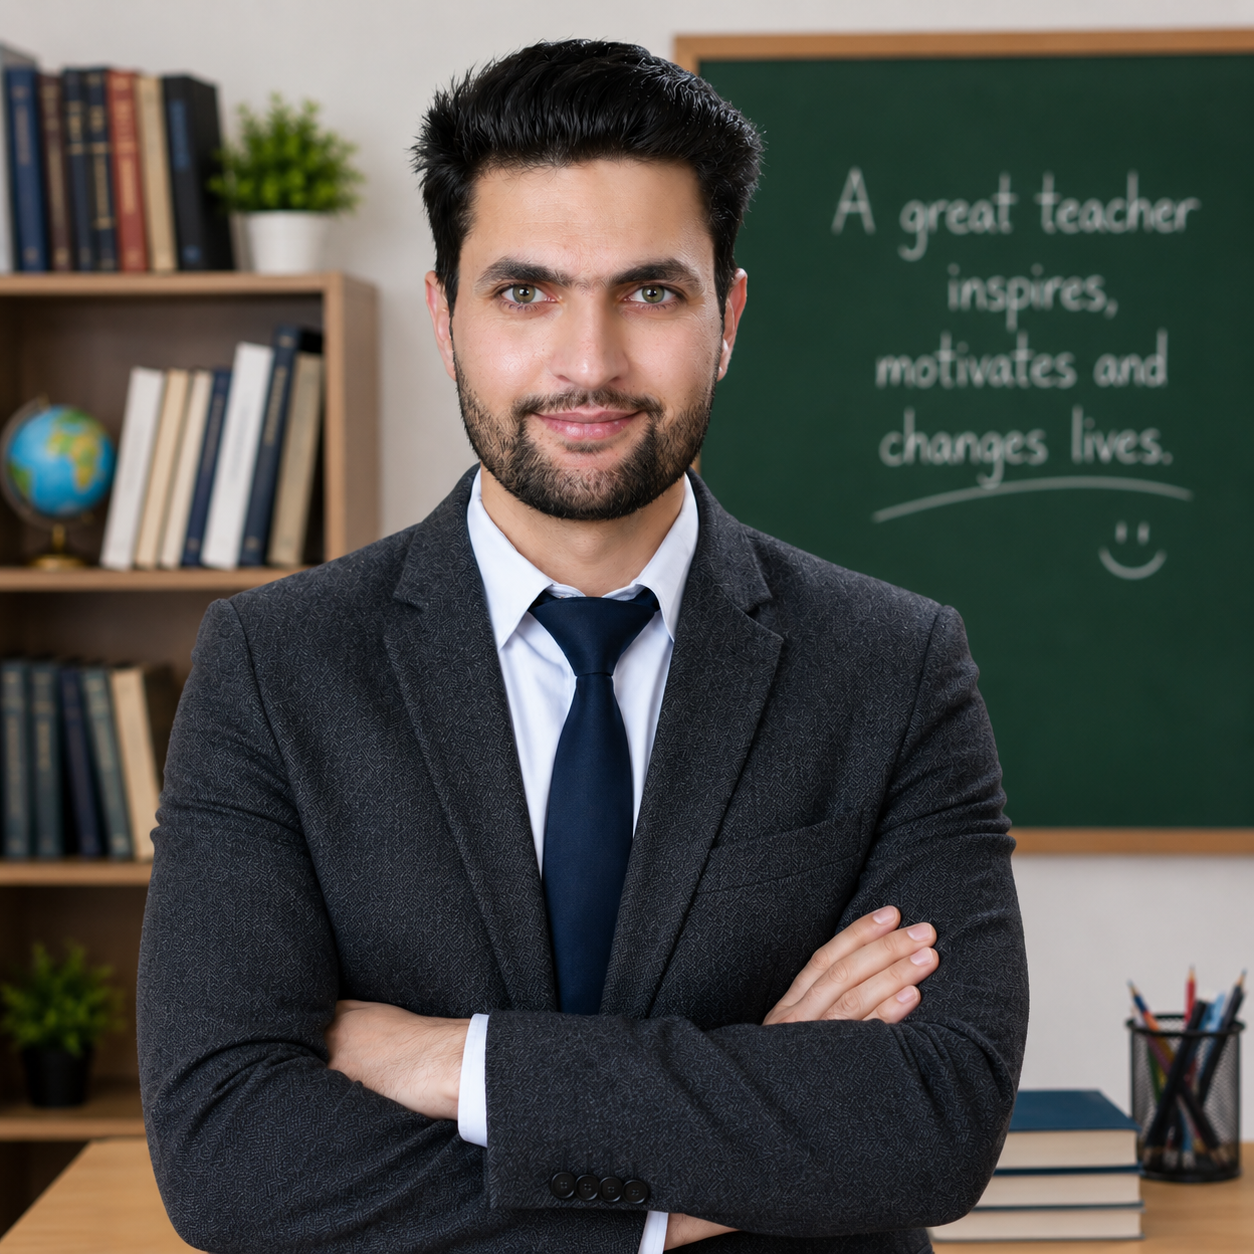
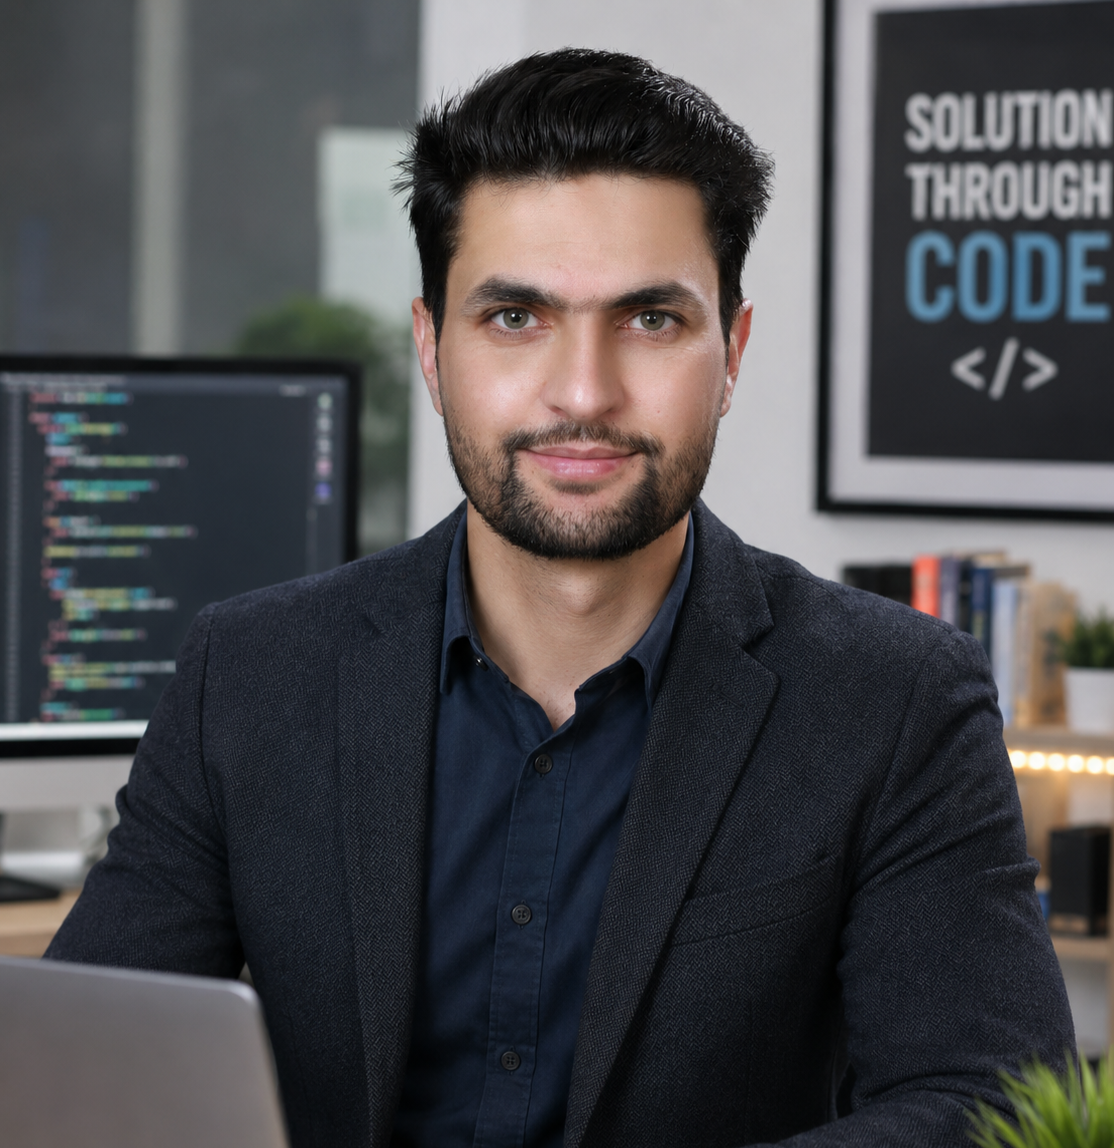
Picture Updated

diff --git a/src/components/Hero.js b/src/components/Hero.js
@@ -27,7 +27,7 @@ export default function Hero() {
 
       <div>
         <Image
-          src="/nstudent.png"
+          src="/newstudent.png"
           alt="Hero Image"
           width={500}
           height={350}

diff --git a/src/pages/teachers/[id].js b/src/pages/teachers/[id].js
@@ -13,7 +13,7 @@ export default function TeacherProfile() {
   );
 
   if (!teacher) {
-    return <h2 className="container">Loading...</h2>;
+    return <h2 className="container">Teacher not found</h2>;
   }
 
   return (